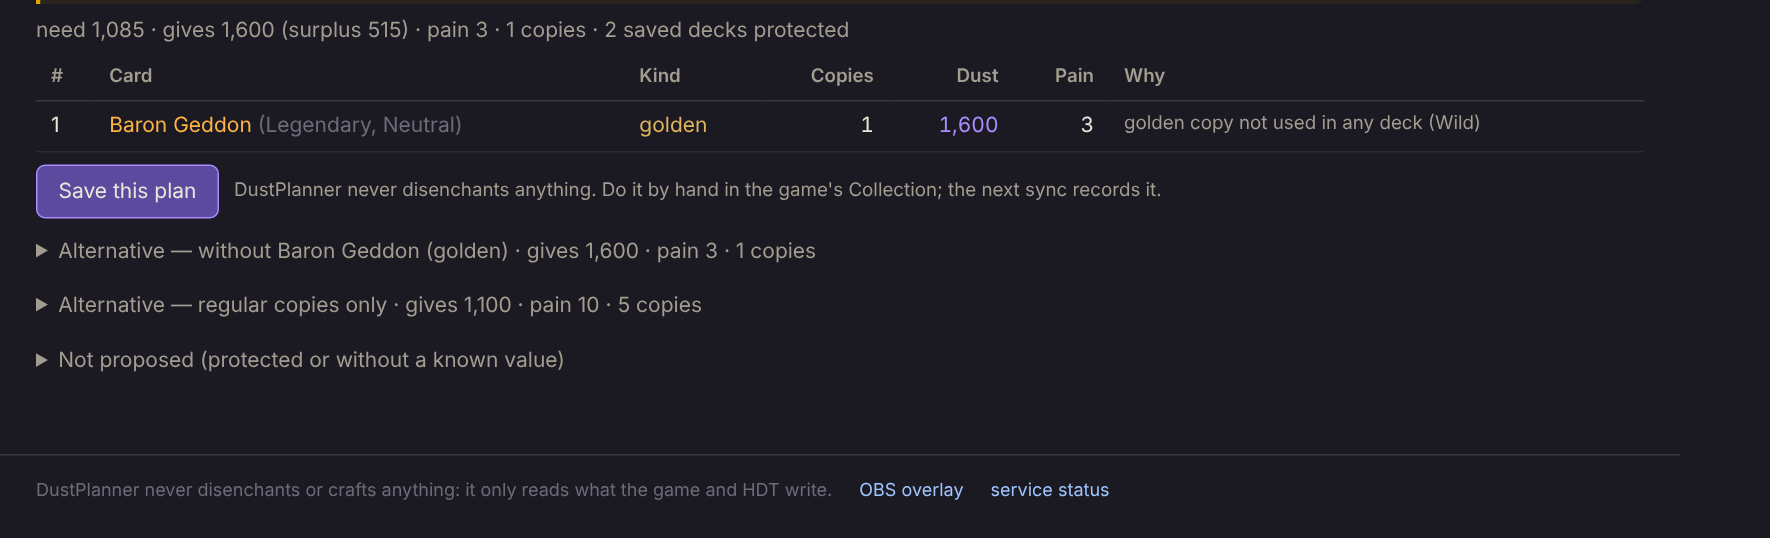
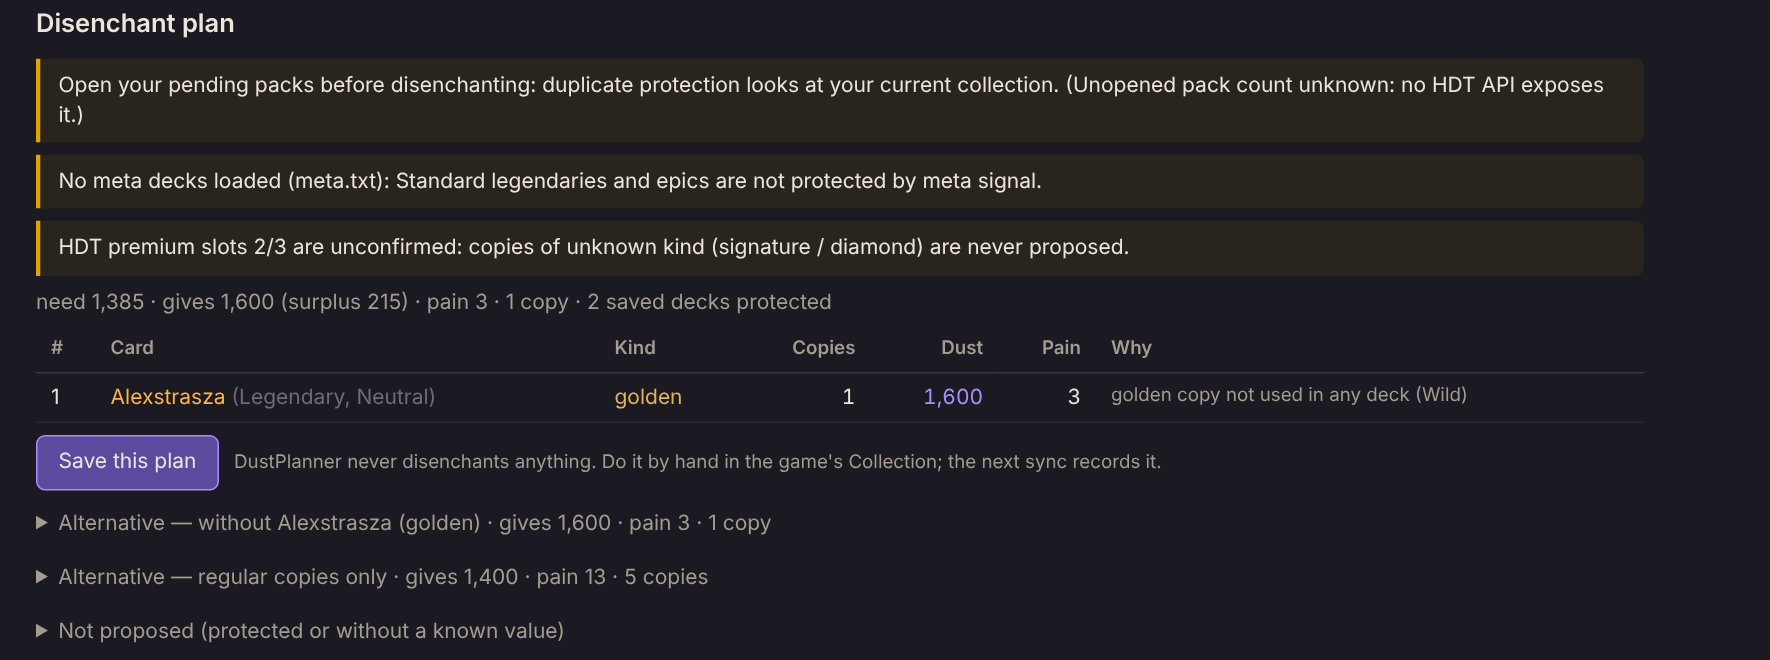
Site: long paths wrap inside their cards; phone layout; two screenshots retaken
The Install card's %AppData% path ran over the next card and the step
title rule turned the inline "DustPlanner" bold into a block (orphan
period). Code now wraps anywhere (with soft breaks after the
backslashes), the title rule only hits the first bold of each step, and
cards get min-width 0. At phone widths the header and nav wrap, the
grids use minmax(0, 1fr) so the hero image cannot widen its column, and
the overlay image is capped at the viewport: no horizontal scroll from
390px up.

Screenshots: settings.png showed the Linux scratch folder of the demo
home wrapping over the next row; it now shows the Windows data folder
the same build prints (%LocalAppData%\DustPlanner for the demo user).
deck-plan.png was a crop that cut the plan's heading off; retaken as the
whole "Disenchant plan" block (alt text and height updated, EN/ES).

Panel: the Service key/value grid keeps long paths inside their column
(minmax(0, 1fr), overflow-wrap anywhere); plan summaries pluralise
"1 copy" / "1 saved deck" in both languages.

Claude-Session: https://claude.ai/code/session_012GSDJ7LoqSUqyHPWefBBRc

diff --git a/site/site.css b/site/site.css
@@ -18,18 +18,18 @@ h3 { font-size: 18px; margin: 22px 0 6px; }
 p { margin: 8px 0; max-width: var(--measure); }
 ul, ol { max-width: var(--measure); padding-left: 22px; }
 li { margin: 4px 0; }
-code { font-family: Consolas, "Cascadia Mono", monospace; font-size: 14px; background: var(--raised); padding: 1px 6px; border-radius: 4px; }
+code { font-family: Consolas, "Cascadia Mono", monospace; font-size: 14px; background: var(--raised); padding: 1px 6px; border-radius: 4px; overflow-wrap: anywhere; }
 pre { background: var(--surface); border: 1px solid var(--line); border-radius: var(--radius); padding: 12px 16px; overflow: auto; max-width: 100%; }
 pre code { background: none; padding: 0; }
 img { max-width: 100%; height: auto; display: block; }
 .shot { border: 1px solid var(--line); border-radius: var(--radius); box-shadow: 0 18px 48px rgba(0, 0, 0, 0.45); }
 
 /* header */
-.top { display: flex; align-items: center; justify-content: space-between; padding: 18px 24px; max-width: 1160px; margin: 0 auto; }
+.top { display: flex; flex-wrap: wrap; align-items: center; justify-content: space-between; gap: 10px 18px; padding: 18px 24px; max-width: 1160px; margin: 0 auto; }
 .brand { display: flex; align-items: center; gap: 10px; font-size: 20px; font-weight: 600; color: var(--ink); }
 .brand:hover { text-decoration: none; }
 .mark { width: 14px; height: 14px; border-radius: 50%; background: radial-gradient(circle at 35% 35%, #d9ccff, var(--dust) 55%, var(--dust-dim)); box-shadow: 0 0 12px rgba(169, 140, 255, 0.55); }
-.nav { display: flex; gap: 18px; align-items: center; font-size: 15px; }
+.nav { display: flex; flex-wrap: wrap; justify-content: flex-end; gap: 6px 18px; align-items: center; font-size: 15px; }
 .nav a { color: var(--muted); }
 .nav a:hover { color: var(--ink); }
 .lang { border: 1px solid var(--line); border-radius: 999px; padding: 3px 10px; color: var(--muted); font-size: 13px; }
@@ -53,9 +53,9 @@ section { max-width: 1160px; margin: 0 auto; padding: 44px 24px; border-top: 1px
 .split.flip > div:first-child { order: 2; }
 .feature + .feature { margin-top: 44px; }
 .steps { counter-reset: step; list-style: none; padding: 0; max-width: none; display: grid; grid-template-columns: repeat(auto-fit, minmax(230px, 1fr)); gap: 18px; }
-.steps li { background: var(--surface); border: 1px solid var(--line); border-radius: var(--radius); padding: 16px 18px 16px 52px; position: relative; margin: 0; }
+.steps li { background: var(--surface); border: 1px solid var(--line); border-radius: var(--radius); padding: 16px 18px 16px 52px; position: relative; margin: 0; min-width: 0; }
 .steps li::before { counter-increment: step; content: counter(step); position: absolute; left: 16px; top: 14px; width: 26px; height: 26px; border-radius: 50%; background: var(--dust-dim); color: #fff; font-weight: 600; display: grid; place-items: center; font-size: 14px; }
-.steps b { display: block; margin-bottom: 4px; }
+.steps li > b:first-child { display: block; margin-bottom: 4px; }
 .diagram { margin: 18px 0 6px; }
 .diagram svg { width: 100%; height: auto; max-width: 900px; }
 .never { border-left: 3px solid var(--win); background: rgba(125, 216, 125, 0.07); padding: 12px 16px; border-radius: 0 var(--radius) var(--radius) 0; max-width: var(--measure); }
@@ -71,11 +71,11 @@ footer { max-width: 1160px; margin: 0 auto; padding: 28px 24px 40px; border-top:
 footer p { max-width: none; }
 
 @media (max-width: 860px) {
-  .hero, .split, .split.flip { grid-template-columns: 1fr; }
+  .hero, .split, .split.flip { grid-template-columns: minmax(0, 1fr); }
   .split.flip > div:first-child { order: 0; }
   .hero h1 { font-size: 34px; }
   .hero .shot { transform: none; }
-  .nav { gap: 12px; font-size: 14px; }
+  .nav { gap: 4px 12px; font-size: 14px; justify-content: flex-start; }
 }
 @media (prefers-reduced-motion: no-preference) {
   .hero .shot { transition: transform 0.4s ease; }

diff --git a/src/DustPlanner.Host/Panel/i18n.js b/src/DustPlanner.Host/Panel/i18n.js
@@ -41,10 +41,11 @@ window.DP_STRINGS = {
     unknown_ids_title: "Unknown card ids", unknown_ids_hint: "Not in the card data: update it in Settings.",
     rotation_title: "Leaves Standard at the next rotation ({when})", rotation_risk: "craft dust at risk: {dust}",
     rotation_owned: "owned", rotation_craft: "craft {dust}", rotation_not_craftable: "not craftable",
-    plan_title: "Disenchant plan", plan_summary: "need {need} · gives {gives} (surplus {surplus}) · pain {pain} · {copies} copies · {decks} saved decks protected",
+    plan_title: "Disenchant plan", plan_summary: "need {need} · gives {gives} (surplus {surplus}) · pain {pain} · {copies} · {decks} protected",
+    copies_one: "1 copy", copies_many: "{n} copies", saved_decks_one: "1 saved deck", saved_decks_many: "{n} saved decks",
     plan_none_title: "No plan", plan_save: "Save this plan", plan_saved: "Plan #{id} saved. After you disenchant in the game and leave the Collection, the sync will tick it off.",
     plan_already_have: "You already have the dust this deck needs.",
-    plan_alt: "Alternative — {label} · gives {gives} · pain {pain} · {copies} copies",
+    plan_alt: "Alternative — {label} · gives {gives} · pain {pain} · {copies}",
     plan_excluded: "Not proposed (protected or without a known value)", plan_excluded_total: "Excluded in total",
     plan_warnings: "Before you disenchant", plan_blockers: "Why there is no plan",
     plan_never: "DustPlanner never disenchants anything. Do it by hand in the game's Collection; the next sync records it.",
@@ -121,10 +122,11 @@ window.DP_STRINGS = {
     unknown_ids_title: "Ids de carta desconocidos", unknown_ids_hint: "No están en los datos de cartas: actualizalos en Ajustes.",
     rotation_title: "Salen de Standard en la próxima rotación ({when})", rotation_risk: "polvo de crafteo en riesgo: {dust}",
     rotation_owned: "la tenés", rotation_craft: "craftear {dust}", rotation_not_craftable: "no crafteable",
-    plan_title: "Plan de desencantado", plan_summary: "necesita {need} · da {gives} (sobran {surplus}) · dolor {pain} · {copies} copias · {decks} mazos guardados protegidos",
+    plan_title: "Plan de desencantado", plan_summary: "necesita {need} · da {gives} (sobran {surplus}) · dolor {pain} · {copies} · {decks} protegidos",
+    copies_one: "1 copia", copies_many: "{n} copias", saved_decks_one: "1 mazo guardado", saved_decks_many: "{n} mazos guardados",
     plan_none_title: "Sin plan", plan_save: "Guardar este plan", plan_saved: "Plan #{id} guardado. Cuando desencantes en el juego y salgas de la Colección, la sincronización lo marca.",
     plan_already_have: "Ya tenés el polvo que necesita este mazo.",
-    plan_alt: "Alternativa — {label} · da {gives} · dolor {pain} · {copies} copias",
+    plan_alt: "Alternativa — {label} · da {gives} · dolor {pain} · {copies}",
     plan_excluded: "No propuestas (protegidas o sin valor conocido)", plan_excluded_total: "Excluidas en total",
     plan_warnings: "Antes de desencantar", plan_blockers: "Por qué no hay plan",
     plan_never: "DustPlanner nunca desencanta nada. Hacelo a mano en la Colección del juego; la próxima sincronización lo registra.",

diff --git a/site/es/index.html b/site/es/index.html
@@ -81,7 +81,7 @@
       <p>Elegí uno de tus mazos de HDT de la lista o pegá un código. Ves las cartas que faltan con su costo, la barra del polvo (lo que tenés, lo que da el plan, lo que todavía falta), las cartas que el juego <em>no</em> craftea y por qué, las que vienen incluidas con otra, y lo que sale de Standard en la próxima rotación.</p>
       <p>Debajo, el plan: cada copia con su polvo y un <em>por qué</em> — "dorada que no usás en ningún mazo", "carta solo de Wild y jugás Standard" — más alternativas (sin la copia más dolorosa, solo copias normales) y la lista de lo que deliberadamente no se propuso. Guardá el plan y se compara con lo que realmente desencantes.</p>
     </div>
-    <img class="shot" src="../img/deck-plan.png" alt="Parte superior de la página Mazo después de guardar un plan" width="1770" height="538">
+    <img class="shot" src="../img/deck-plan.png" alt="El plan de desencantado de un mazo: una copia dorada, por qué se eligió y las alternativas" width="1770" height="660">
   </div>
 
   <div class="feature split flip">
@@ -119,7 +119,7 @@
   <div class="feature">
     <h3>Y para streamers: un overlay para OBS</h3>
     <p>El mismo servicio sirve una página transparente de 1920×1080 para un Browser Source de OBS: rango, récord de la sesión, récord de hoy, polvo, última partida — actualizado segundos después de terminar una partida. Opciones de tamaño, lado y tema claro.</p>
-    <img class="shot" src="../img/overlay.png" alt="La barra del overlay para OBS: rango, sesión, hoy, polvo" width="1548" height="251" style="max-width:780px">
+    <img class="shot" src="../img/overlay.png" alt="La barra del overlay para OBS: rango, sesión, hoy, polvo" width="1548" height="251" style="max-width:min(780px, 100%)">
   </div>
 </section>
 
@@ -127,7 +127,7 @@
   <h2>Instalar</h2>
   <ol class="steps">
     <li><b>Descargar</b><a href="https://github.com/" data-release>El último <code>DustPlanner-v….zip</code></a> desde GitHub Releases. Unos 50 MB: el servicio viene incluido, no hay runtime que instalar.</li>
-    <li><b>Copiar</b>Cerrá HDT. Descomprimí y copiá la carpeta <code>DustPlanner</code> en <code>%AppData%\HearthstoneDeckTracker\Plugins\</code>.</li>
+    <li><b>Copiar</b>Cerrá HDT. Descomprimí y copiá la carpeta <code>DustPlanner</code> en <code>%AppData%\<wbr>HearthstoneDeckTracker\<wbr>Plugins\</code>.</li>
     <li><b>Activar</b>Abrí HDT → <i>Options → Tracker → Plugins</i> → tildá <b>DustPlanner</b>.</li>
     <li><b>Exportar una vez</b>Con el juego abierto, entrá a <i>Mi colección</i> y volvé al menú. Pasá una vez por <i>Jugar</i> para que se conozcan tus mazos. Después <i>Plugins → DustPlanner → Open DustPlanner</i>.</li>
   </ol>

diff --git a/site/index.html b/site/index.html
@@ -81,7 +81,7 @@
       <p>Pick one of your HDT decks from the list or paste a deck code. You get the missing cards with their cost, the dust gap (what you have, what the plan gives, what is still missing), the cards the game will <em>not</em> craft and why, cards that come bundled with another one, and what leaves Standard at the next rotation.</p>
       <p>Below it, the plan: each copy with its dust and a <em>why</em> — "golden copy not used in any deck", "Wild-only card and you play Standard" — plus alternatives (without the most painful pick, regular copies only) and the list of what was deliberately not proposed. Save the plan and it is matched against what you actually dust.</p>
     </div>
-    <img class="shot" src="img/deck-plan.png" alt="Top of the Deck page after saving a plan" width="1770" height="538">
+    <img class="shot" src="img/deck-plan.png" alt="The disenchant plan for a deck: one golden copy, why it was picked, and the alternatives" width="1770" height="660">
   </div>
 
   <div class="feature split flip">
@@ -119,7 +119,7 @@
   <div class="feature">
     <h3>And for streamers: an OBS overlay</h3>
     <p>The same service serves a transparent 1920×1080 page for an OBS Browser Source: rank, session record, today's record, dust, last game — updated within seconds of a game ending. Options for size, side and a light theme.</p>
-    <img class="shot" src="img/overlay.png" alt="The OBS overlay bar: rank, session, today, dust" width="1548" height="251" style="max-width:780px">
+    <img class="shot" src="img/overlay.png" alt="The OBS overlay bar: rank, session, today, dust" width="1548" height="251" style="max-width:min(780px, 100%)">
   </div>
 </section>
 
@@ -127,7 +127,7 @@
   <h2>Install</h2>
   <ol class="steps">
     <li><b>Download</b><a href="https://github.com/" data-release>The latest <code>DustPlanner-v….zip</code></a> from GitHub Releases. About 50 MB: the service is bundled, so there is no runtime to install.</li>
-    <li><b>Copy</b>Close HDT. Unzip and copy the <code>DustPlanner</code> folder into <code>%AppData%\HearthstoneDeckTracker\Plugins\</code>.</li>
+    <li><b>Copy</b>Close HDT. Unzip and copy the <code>DustPlanner</code> folder into <code>%AppData%\<wbr>HearthstoneDeckTracker\<wbr>Plugins\</code>.</li>
     <li><b>Enable</b>Start HDT → <i>Options → Tracker → Plugins</i> → tick <b>DustPlanner</b>.</li>
     <li><b>Export once</b>With the game running, open <i>My Collection</i> and go back to the menu. Visit <i>Play</i> once so your decks are known. Then <i>Plugins → DustPlanner → Open DustPlanner</i>.</li>
   </ol>

diff --git a/src/DustPlanner.Host/Panel/app.js b/src/DustPlanner.Host/Panel/app.js
@@ -24,6 +24,8 @@
   const esc = s => String(s == null ? "" : s).replace(/[&<>"']/g, c => ({ "&": "&amp;", "<": "&lt;", ">": "&gt;", '"': "&quot;", "'": "&#39;" }[c]));
   const n = v => (v == null ? "—" : Number(v).toLocaleString(lang === "es" ? "es-ES" : "en-US"));
   const pct = v => (v == null ? null : Math.round(v * 1000) / 10);
+  // "1 copy" / "3 copies": the string table holds the two forms under <key>_one and <key>_many.
+  const count = (key, v) => t(Number(v) === 1 ? key + "_one" : key + "_many", { n: n(v) });
   const CLASS_NAMES = { DEATHKNIGHT: "Death Knight", DEMONHUNTER: "Demon Hunter" };
   const title = s => { if (!s) return "?"; const u = String(s).toUpperCase(); if (CLASS_NAMES[u]) return CLASS_NAMES[u]; return u.charAt(0) + u.slice(1).toLowerCase(); };
   const when = iso => { if (!iso) return "—"; const d = new Date(iso); return d.toLocaleString(lang === "es" ? "es-ES" : "en-GB", { dateStyle: "medium", timeStyle: "short" }); };
@@ -282,11 +284,11 @@
       else html += "<ul>" + p.blockers.map(b => "<li>" + esc(b) + "</li>").join("") + "</ul>";
     } else {
       const m = p.main;
-      html += '<p class="muted">' + esc(t("plan_summary", { need: n(p.need), gives: n(m.total_dust), surplus: n(m.surplus), pain: m.total_pain, copies: m.total_copies, decks: p.protected_deck_count })) + "</p>";
+      html += '<p class="muted">' + esc(t("plan_summary", { need: n(p.need), gives: n(m.total_dust), surplus: n(m.surplus), pain: m.total_pain, copies: count("copies", m.total_copies), decks: count("saved_decks", p.protected_deck_count) })) + "</p>";
       html += picksTable(m);
       html += '<div class="row"><button class="btn primary" id="btn-save-plan">' + t("plan_save") + '</button><span class="why">' + t("plan_never") + '</span></div><div id="plan-saved"></div>';
       p.alternatives.forEach(a => {
-        html += "<details><summary>" + esc(t("plan_alt", { label: a.label, gives: n(a.result.total_dust), pain: a.result.total_pain, copies: a.result.total_copies })) + "</summary>" + picksTable(a.result) + "</details>";
+        html += "<details><summary>" + esc(t("plan_alt", { label: a.label, gives: n(a.result.total_dust), pain: a.result.total_pain, copies: count("copies", a.result.total_copies) })) + "</summary>" + picksTable(a.result) + "</details>";
       });
     }
     if (p.notable_exclusions.length) {

diff --git a/src/DustPlanner.Host/Panel/app.css b/src/DustPlanner.Host/Panel/app.css
@@ -156,8 +156,10 @@ summary:hover { color: var(--ink); }
 .search ul { position: absolute; left: 0; right: 0; top: 100%; z-index: 5; margin: 2px 0 0; padding: 4px 0; list-style: none; background: var(--raised); border: 1px solid var(--line); border-radius: var(--radius); max-height: 260px; overflow: auto; }
 .search li { padding: 6px 10px; cursor: pointer; display: flex; justify-content: space-between; gap: 10px; }
 .search li:hover, .search li.active { background: rgba(169, 140, 255, 0.15); }
-.kv { display: grid; grid-template-columns: max-content 1fr; gap: 4px 14px; margin: 6px 0; }
+.kv { display: grid; grid-template-columns: max-content minmax(0, 1fr); gap: 4px 14px; margin: 6px 0; }
 .kv span:nth-child(odd) { color: var(--muted); }
+.kv > span { min-width: 0; }
+.kv code { display: inline-block; max-width: 100%; overflow-wrap: anywhere; }
 
 @media (max-width: 720px) {
   :root { --gutter: 16px; }
